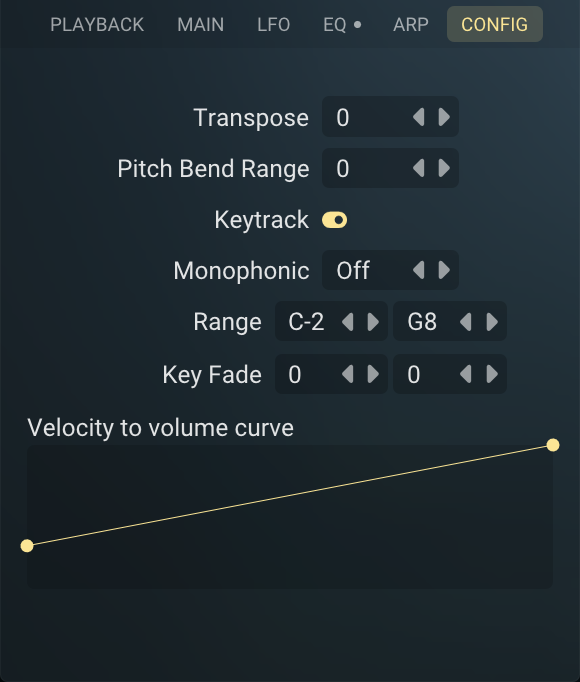
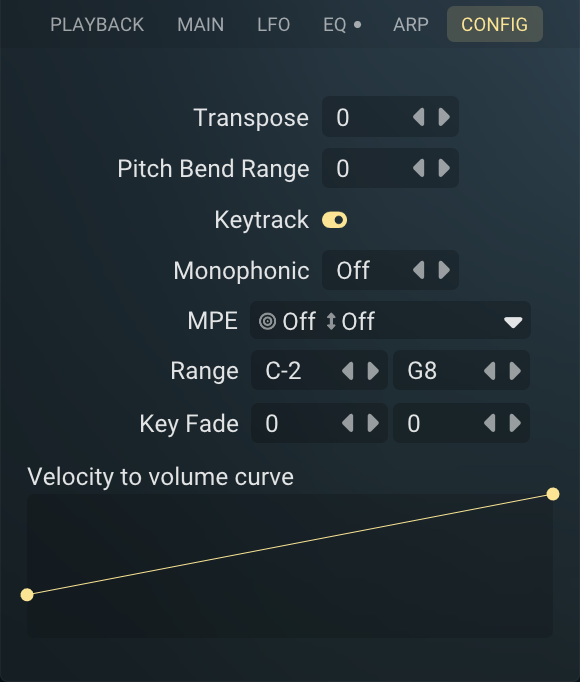
performance controls panel edits and docs

diff --git a/website/sidebars.js b/website/sidebars.js
@@ -39,6 +39,7 @@ const sidebars = {
                 'usage/folders',
                 'usage/key-ranges',
                 'usage/randomisation',
+                'usage/performance-controls',
                 'usage/reproducibility',
                 'usage/midi',
                 'usage/looping',

diff --git a/src/plugin/gui/panels/gui_performance_controls_panel.cpp b/src/plugin/gui/panels/gui_performance_controls_panel.cpp
@@ -10,13 +10,13 @@
 #include "common_infrastructure/descriptors/param_descriptors.hpp"
 #include "common_infrastructure/performance_profile.hpp"
 
+#include "engine/engine.hpp"
 #include "gui/elements/gui_constants.hpp"
 #include "gui/elements/gui_modal.hpp"
 #include "gui/elements/gui_popup_menu.hpp"
 #include "gui_framework/gui_builder.hpp"
 #include "gui_framework/layout.hpp"
 #include "processing_utils/midi.hpp"
-#include "processor/processor.hpp"
 
 constexpr f32 k_cc_col_width = 60.0f;
 constexpr f32 k_icon_col_width = 25.0f;
@@ -169,12 +169,15 @@ static void TextEntryRow(GuiBuilder& builder,
             state.name_error = error;
         } else if (is_rename) {
             perf_profile::RenameProfile(context.prefs, state.rename_target, trimmed);
+            if ((String)context.engine.loaded_profile_name == (String)state.rename_target)
+                dyn::AssignFitInCapacity(context.engine.loaded_profile_name, trimmed);
             ClearTextEntry(state);
             builder.imgui.CloseTopPopupOnly();
         } else {
-            auto profile = CaptureCurrentPerformanceProfile(context.processor);
+            auto profile = CaptureCurrentPerformanceProfile(context.engine.processor);
             dyn::AssignFitInCapacity(profile.name, trimmed);
             perf_profile::SaveProfile(context.prefs, profile);
+            dyn::AssignFitInCapacity(context.engine.loaded_profile_name, trimmed);
             ClearTextEntry(state);
             builder.imgui.CloseTopPopupOnly();
         }
@@ -230,8 +233,10 @@ static void ProfileRow(GuiBuilder& builder,
                   .button_behaviour = imgui::ButtonConfig {.closes_popup_or_modal = true},
               })
             .button_fired) {
-        if (auto const profile = perf_profile::LookupProfile(context.prefs, name))
-            ApplyPerformanceProfile(context.processor, *profile);
+        if (auto const profile = perf_profile::LookupProfile(context.prefs, name)) {
+            ApplyPerformanceProfile(context.engine.processor, *profile);
+            dyn::AssignFitInCapacity(context.engine.loaded_profile_name, name);
+        }
     }
 
     if (IconButton(builder,
@@ -250,16 +255,16 @@ static void ProfileRow(GuiBuilder& builder,
             context.confirmation_dialog_state.body_text,
             "Are you sure you want to overwrite the profile '{}' with the current settings? This can't be undone.",
             name);
-        context.confirmation_dialog_state.callback = [&prefs = context.prefs,
-                                                      &processor = context.processor,
-                                                      cloned_name](ConfirmationDialogResult result) {
-            DEFER { Malloc::Instance().Free(cloned_name.ToByteSpan()); };
-            if (result == ConfirmationDialogResult::Ok) {
-                auto profile = CaptureCurrentPerformanceProfile(processor);
-                dyn::AssignFitInCapacity(profile.name, cloned_name);
-                perf_profile::SaveProfile(prefs, profile);
-            }
-        };
+        context.confirmation_dialog_state.callback =
+            [&prefs = context.prefs, &engine = context.engine, cloned_name](ConfirmationDialogResult result) {
+                DEFER { Malloc::Instance().Free(cloned_name.ToByteSpan()); };
+                if (result == ConfirmationDialogResult::Ok) {
+                    auto profile = CaptureCurrentPerformanceProfile(engine.processor);
+                    dyn::AssignFitInCapacity(profile.name, cloned_name);
+                    perf_profile::SaveProfile(prefs, profile);
+                    dyn::AssignFitInCapacity(engine.loaded_profile_name, cloned_name);
+                }
+            };
         builder.imgui.OpenModalViewport(context.confirmation_dialog_state.k_id);
     }
 
@@ -349,6 +354,50 @@ static void ProfileMenuContent(GuiBuilder& builder,
     }
 }
 
+// What to show in the header profile button: either the generic label, or the name of the profile the
+// current settings are following (with an asterisk if they've since diverged from it).
+struct LoadedProfileDisplay {
+    String name;
+    bool modified;
+};
+
+// Figures out which saved profile (if any) the current settings should be labelled with, caching the result
+// onto the engine so it survives closing and reopening the panel. If nothing is explicitly tracked yet
+// (e.g. straight after loading a DAW project), falls back to scanning saved profiles for an exact content
+// match, so the panel can label settings it never saw loaded via this menu. The scan only ever runs once per
+// instance (see loaded_profile_name_scan_attempted) so a permanent non-match doesn't rescan every frame.
+static Optional<LoadedProfileDisplay> DetermineLoadedProfile(PerformanceControlsPanelContext& context,
+                                                             ArenaAllocator& arena) {
+    auto& loaded_name = context.engine.loaded_profile_name;
+    auto const current = CaptureCurrentPerformanceProfile(context.engine.processor);
+
+    if (loaded_name.size == 0 && !context.engine.loaded_profile_name_scan_attempted) {
+        context.engine.loaded_profile_name_scan_attempted = true;
+        for (auto const name : perf_profile::ListProfileNames(context.prefs, arena)) {
+            auto const profile = perf_profile::LookupProfile(context.prefs, name);
+            if (profile && profile->controls == current.controls) {
+                dyn::AssignFitInCapacity(loaded_name, name);
+                break;
+            }
+        }
+    }
+
+    if (loaded_name.size == 0) return k_nullopt;
+
+    auto const profile = perf_profile::LookupProfile(context.prefs, loaded_name);
+    if (!profile) {
+        // The tracked profile was deleted (or renamed elsewhere without updating loaded_name).
+        dyn::Clear(loaded_name);
+        context.engine.loaded_profile_name_scan_attempted = false;
+        return k_nullopt;
+    }
+
+    return LoadedProfileDisplay {
+        .name = loaded_name,
+        .modified = profile->controls != current.controls,
+    };
+}
+
 // Compact profile picker shown in the panel header, next to the title.
 static void HeaderProfileControl(GuiBuilder& builder,
                                  Box parent,
@@ -356,12 +405,18 @@ static void HeaderProfileControl(GuiBuilder& builder,
                                  PerformanceControlsPanelState& state) {
     auto const popup_id = builder.imgui.MakeId("perf-profile-picker"_s);
 
+    auto const loaded = DetermineLoadedProfile(context, builder.arena);
+
     auto const btn = MenuOpenButton(builder,
                                     parent,
                                     {
-                                        .text = "Profiles"_s,
+                                        .text = loaded ? (String)fmt::Format(builder.arena,
+                                                                             "{}{}",
+                                                                             loaded->name,
+                                                                             loaded->modified ? " *"_s : ""_s)
+                                                       : "Profiles"_s,
                                         .tooltip = "Load, save, or manage performance profiles"_s,
-                                        .width = 100,
+                                        .width = 150,
                                     });
     if (btn.button_fired) builder.imgui.OpenPopupMenu(popup_id, btn.imgui_id);
 
@@ -377,7 +432,7 @@ static void HeaderProfileControl(GuiBuilder& builder,
 }
 
 static void ReproducibilityTab(GuiBuilder& builder, PerformanceControlsPanelContext& context) {
-    auto settings = context.processor.performance_settings.Load(LoadMemoryOrder::Relaxed);
+    auto settings = context.engine.processor.performance_settings.Load(LoadMemoryOrder::Relaxed);
     auto const initial_settings = settings;
 
     auto const controls = DoBox(builder,
@@ -457,11 +512,12 @@ static void ReproducibilityTab(GuiBuilder& builder, PerformanceControlsPanelCont
         settings.seed = (u8)*v;
     }
 
-    if (settings != initial_settings) context.processor.performance_settings.Store(settings, StoreMemoryOrder::Release);
+    if (settings != initial_settings)
+        context.engine.processor.performance_settings.Store(settings, StoreMemoryOrder::Release);
 }
 
 static void MpeTab(GuiBuilder& builder, PerformanceControlsPanelContext& context) {
-    auto settings = context.processor.performance_settings.Load(LoadMemoryOrder::Relaxed);
+    auto settings = context.engine.processor.performance_settings.Load(LoadMemoryOrder::Relaxed);
     auto const initial_settings = settings;
 
     auto const controls = DoBox(builder,
@@ -509,7 +565,8 @@ static void MpeTab(GuiBuilder& builder, PerformanceControlsPanelContext& context
               .text_colours = Col {.c = Col::Subtext0},
           });
 
-    if (settings != initial_settings) context.processor.performance_settings.Store(settings, StoreMemoryOrder::Release);
+    if (settings != initial_settings)
+        context.engine.processor.performance_settings.Store(settings, StoreMemoryOrder::Release);
 }
 
 // Defined further below; forward-declared here so the table content can append the add-assignment row/button
@@ -544,7 +601,7 @@ static void MidiCcTableContent(GuiBuilder& builder,
 
         if (descriptor.flags.not_automatable) continue;
 
-        auto const ccs_bitset = GetLearnedCCsBitsetForParam(context.processor, param_index);
+        auto const ccs_bitset = GetLearnedCCsBitsetForParam(context.engine.processor, param_index);
         if (!ccs_bitset.AnyValuesSet()) continue;
 
         for (auto const cc_num : Range(128uz)) {
@@ -570,7 +627,7 @@ static void MidiCcTableContent(GuiBuilder& builder,
                 DoBox(builder,
                       {
                           .parent = cc_container,
-                          .text = fmt::Format(builder.arena, "CC {}", cc_num),
+                          .text = fmt::Format(builder.arena, "{}", cc_num),
                           .size_from_text = true,
                           .text_justification = TextJustification::CentredLeft,
                       });
@@ -607,7 +664,7 @@ static void MidiCcTableContent(GuiBuilder& builder,
                               .extra_margin_for_mouse_events = 2,
                           });
 
-                if (remove_btn.button_fired) UnlearnMidiCC(context.processor, param_index, (u7)cc_num);
+                if (remove_btn.button_fired) UnlearnMidiCC(context.engine.processor, param_index, (u7)cc_num);
             }
         }
     }
@@ -840,7 +897,7 @@ static void AddCcAssignmentRow(GuiBuilder& builder,
                        .is_default = true,
                    })) {
         if (state.add_cc_param) {
-            AddLearnedMidiCC(context.processor, *state.add_cc_param, (u7)state.add_cc_number);
+            AddLearnedMidiCC(context.engine.processor, *state.add_cc_param, (u7)state.add_cc_number);
             CloseAddCcAssignment(state);
         }
     }
@@ -848,8 +905,9 @@ static void AddCcAssignmentRow(GuiBuilder& builder,
     if (TextButton(builder, row, {.text = "Cancel"_s})) CloseAddCcAssignment(state);
 }
 
-static void
-MidiCcTab(GuiBuilder& builder, PerformanceControlsPanelContext& context, PerformanceControlsPanelState& state) {
+static void MidiCcTab(GuiBuilder& builder,
+                      PerformanceControlsPanelContext& context,
+                      PerformanceControlsPanelState& state) {
     auto const root = DoBox(builder,
                             {
                                 .layout {
@@ -900,8 +958,8 @@ MidiCcTab(GuiBuilder& builder, PerformanceControlsPanelContext& context, Perform
 }
 
 static void PerformanceControlsPanel(GuiBuilder& builder,
-                                   PerformanceControlsPanelContext& context,
-                                   PerformanceControlsPanelState& state) {
+                                     PerformanceControlsPanelContext& context,
+                                     PerformanceControlsPanelState& state) {
     auto const root = DoModalRootBox(builder);
 
     DoModalHeader(builder,
@@ -936,7 +994,7 @@ static void PerformanceControlsPanel(GuiBuilder& builder,
         if (!state.new_instance_defaults_cache)
             state.new_instance_defaults_cache = perf_profile::DefaultOrFallback(context.prefs);
 
-        auto const current = CaptureCurrentPerformanceProfile(context.processor);
+        auto const current = CaptureCurrentPerformanceProfile(context.engine.processor);
         bool const matches_defaults = current == *state.new_instance_defaults_cache;
 
         DoBox(builder,
@@ -984,17 +1042,30 @@ static void PerformanceControlsPanel(GuiBuilder& builder,
                       .font = FontType::Body,
                       .text_colours = Col {.c = Col::Subtext0},
                   });
-        } else if (
-            TextButton(
-                builder,
-                row,
-                {
-                    .text = "Make default"_s,
-                    .tooltip =
-                        "Make this page's current settings the ones new Floe instances start with"_s,
-                })) {
-            perf_profile::SaveDefault(context.prefs, current);
-            state.new_instance_defaults_cache = current;
+        } else {
+            if (TextButton(
+                    builder,
+                    row,
+                    {
+                        .text = "Make default"_s,
+                        .tooltip =
+                            "Make this page's current settings the ones new Floe instances start with"_s,
+                    })) {
+                perf_profile::SaveDefault(context.prefs, current);
+                state.new_instance_defaults_cache = current;
+            }
+
+            if (IconButton(builder,
+                           row,
+                           ICON_FA_ARROW_ROTATE_LEFT,
+                           "Reset this instance's settings to the default for new Floe instances"_s,
+                           k_font_icons_size * 0.8f,
+                           f32x2 {k_icon_col_width, k_table_row_height})
+                    .button_fired) {
+                ApplyPerformanceProfile(context.engine.processor, *state.new_instance_defaults_cache);
+                dyn::Clear(context.engine.loaded_profile_name);
+                context.engine.loaded_profile_name_scan_attempted = false;
+            }
         }
     }
 
@@ -1028,7 +1099,9 @@ static void PerformanceControlsPanel(GuiBuilder& builder,
                                   case PerformanceControlsPanelState::Tab::Reproducibility:
                                       ReproducibilityTab(builder, context);
                                       break;
-                                  case PerformanceControlsPanelState::Tab::Mpe: MpeTab(builder, context); break;
+                                  case PerformanceControlsPanelState::Tab::Mpe:
+                                      MpeTab(builder, context);
+                                      break;
                                   case PerformanceControlsPanelState::Tab::MidiCc:
                                       MidiCcTab(builder, context, state);
                                       break;
@@ -1048,8 +1121,8 @@ static void PerformanceControlsPanel(GuiBuilder& builder,
 }
 
 void DoPerformanceControlsPanel(GuiBuilder& builder,
-                              PerformanceControlsPanelContext& context,
-                              PerformanceControlsPanelState& state) {
+                                PerformanceControlsPanelContext& context,
+                                PerformanceControlsPanelState& state) {
     if (!builder.imgui.IsModalOpen(state.k_panel_id)) {
         state.new_instance_defaults_cache = k_nullopt;
         return;
@@ -1059,11 +1132,12 @@ void DoPerformanceControlsPanel(GuiBuilder& builder,
     builder.imgui.RegisterNamedRect("performance-controls-panel.modal"_s,
                                     builder.imgui.ViewportRectToWindowRect(bounds));
 
-    DoBoxViewport(builder,
-                  {
-                      .run = [&context, &state](GuiBuilder& b) { PerformanceControlsPanel(b, context, state); },
-                      .bounds = bounds,
-                      .imgui_id = state.k_panel_id,
-                      .viewport_config = k_default_modal_viewport,
-                  });
+    DoBoxViewport(
+        builder,
+        {
+            .run = [&context, &state](GuiBuilder& b) { PerformanceControlsPanel(b, context, state); },
+            .bounds = bounds,
+            .imgui_id = state.k_panel_id,
+            .viewport_config = k_default_modal_viewport,
+        });
 }

diff --git a/src/plugin/engine/engine.hpp b/src/plugin/engine/engine.hpp
@@ -6,6 +6,7 @@
 
 #include "common_infrastructure/autosave.hpp"
 #include "common_infrastructure/constants.hpp"
+#include "common_infrastructure/performance_profile.hpp"
 #include "common_infrastructure/preset_description.hpp"
 #include "common_infrastructure/sample_library/attribution_requirements.hpp"
 #include "common_infrastructure/sample_library/server/sample_library_server.hpp"
@@ -89,6 +90,15 @@ struct Engine : ProcessorListener {
     Optional<StateSnapshot> stashed_modifications {};
 
     StateMetadata state_metadata {};
+
+    // Main-thread only, not persisted. Name of the saved performance profile that the current settings are
+    // considered to be following, if any: set when a profile is loaded/saved/overwritten from the
+    // performance controls panel, or discovered lazily by matching current settings against saved profiles.
+    // Empty if the current settings aren't following a named profile.
+    DynamicArrayBounded<char, perf_profile::k_max_name_size> loaded_profile_name {};
+    // Whether we've already attempted the lazy match-by-content scan, so we don't repeat it every frame the
+    // panel is open when nothing matches.
+    bool loaded_profile_name_scan_attempted {};
 
     Bitset<k_num_effect_types> fx_visible {};
     MacroNames macro_names = DefaultMacroNames();

diff --git a/src/plugin/gui/panels/gui_performance_controls_panel.hpp b/src/plugin/gui/panels/gui_performance_controls_panel.hpp
@@ -11,7 +11,7 @@
 #include "gui/core/gui_fwd.hpp"
 #include "gui/overlays/gui_confirmation_dialog.hpp"
 
-struct AudioProcessor;
+struct Engine;
 
 struct PerformanceControlsPanelState {
     static constexpr u64 k_panel_id = HashFnv1a("performance-controls-panel");
@@ -40,7 +40,7 @@ struct PerformanceControlsPanelState {
 };
 
 struct PerformanceControlsPanelContext {
-    AudioProcessor& processor;
+    Engine& engine;
     prefs::Preferences& prefs;
     ConfirmationDialogState& confirmation_dialog_state;
 };

diff --git a/src/plugin/gui/core/gui_state.cpp b/src/plugin/gui/core/gui_state.cpp
@@ -314,7 +314,7 @@ void GuiUpdate(GuiState& g) {
 
     {
         PerformanceControlsPanelContext context {
-            .processor = g.engine.processor,
+            .engine = g.engine,
             .prefs = g.prefs,
             .confirmation_dialog_state = g.confirmation_dialog_state,
         };
